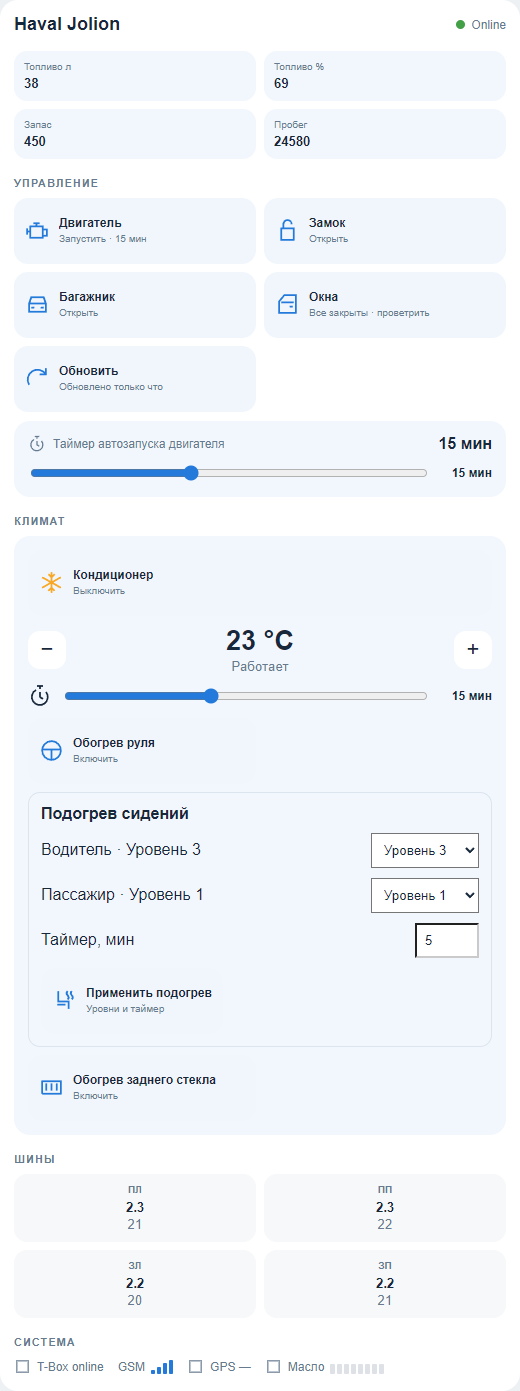
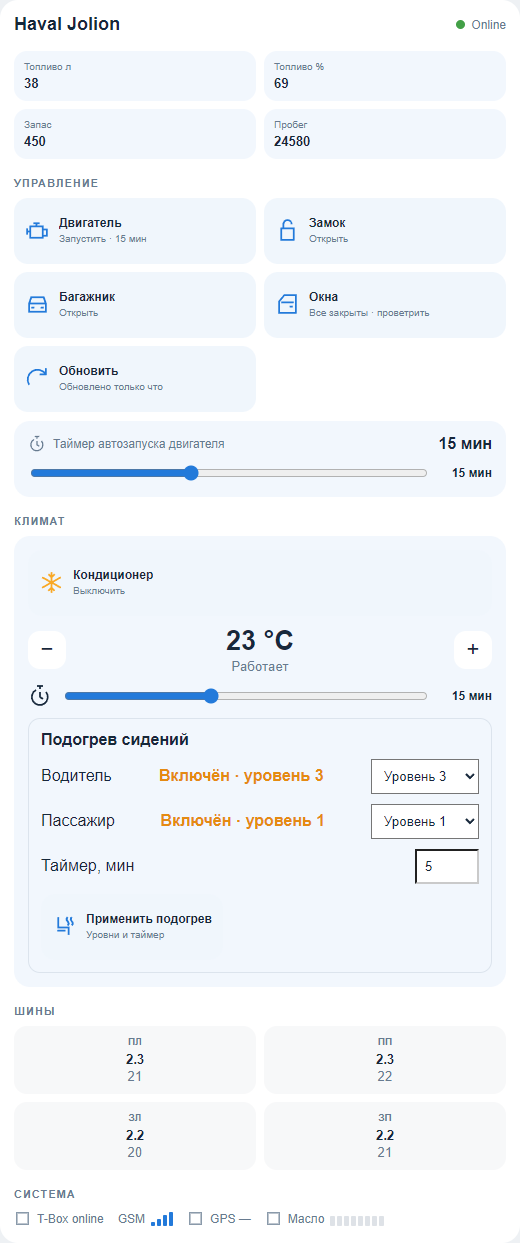
0.1.0-alpha.23: disable unconfirmed heaters and show seat status

diff --git a/custom_components/gwm_jolion/frontend/gwm-jolion-remote-card.js b/custom_components/gwm_jolion/frontend/gwm-jolion-remote-card.js
@@ -4,7 +4,7 @@
  * See LICENSE.starline and THIRD_PARTY_NOTICES.md in this directory.
  */
 (() => {
-  const CARD_VERSION = "0.1.0-alpha.22";
+  const CARD_VERSION = "0.1.0-alpha.23";
[1 lines of base64/hex data omitted]
   const INTEGRATION = "gwm_jolion";
   const DEFAULT_CONTROLS = ["engine", "lock", "climate", "trunk", "refresh"];

diff --git a/custom_components/gwm_jolion/frontend/gwm-jolion-card.js b/custom_components/gwm_jolion/frontend/gwm-jolion-card.js
@@ -1,6 +1,6 @@
-/* GWM Jolion Card v0.1.0-alpha.22 */
+/* GWM Jolion Card v0.1.0-alpha.23 */
 (() => {
-  const CARD_VERSION = "0.1.0-alpha.22";
+  const CARD_VERSION = "0.1.0-alpha.23";
   const INTEGRATION = "gwm_jolion";
 
   const SUFFIX = {
@@ -234,7 +234,7 @@
       if (Number.isFinite(value)) {
         return value === 0
           ? "Выключен"
-          : `Уровень ${value}`;
+          : `Включён · уровень ${value}`;
       }
       return `${raw}`;
     }
@@ -1027,7 +1027,7 @@
       this._seatSettings ||= {driver: 0, passenger: 0, operation_time: 5};
       return `<div class="seat-panel" style="grid-column:1/-1;padding:12px;border:1px solid var(--divider-color);border-radius:12px">
         <strong>Подогрев сидений</strong>
-        ${seats.map(([key, , sensor, label]) => `<label style="display:flex;justify-content:space-between;align-items:center;gap:8px;margin:10px 0">${label} · ${this._escape(this._seatValue(sensor))}
+        ${seats.map(([key, , sensor, label]) => `<label style="display:flex;flex-wrap:wrap;justify-content:space-between;align-items:center;gap:8px;margin:10px 0">${label}<span role="status" data-seat-status="${key}" style="font-weight:600;color:${Number(this._rawValue(sensor)) > 0 ? "var(--warning-color, #e58b12)" : "var(--secondary-text-color)"}">${this._escape(this._seatValue(sensor))}</span>
           <select aria-label="Подогрев: ${label}" data-seat-setting="${key}" style="padding:8px;background:var(--card-background-color);color:var(--primary-text-color)">${[0,1,2,3].map(level => `<option value="${level}" ${this._seatSettings[key] === level ? "selected" : ""}>${level ? `Уровень ${level}` : "Выключить"}</option>`).join("")}</select></label>`).join("")}
         <label style="display:flex;justify-content:space-between;align-items:center;margin:10px 0">Таймер, мин
           <input aria-label="Таймер подогрева" data-seat-setting="operation_time" type="number" min="1" max="10" step="1" value="${this._seatSettings.operation_time}" style="width:64px;padding:8px;background:var(--card-background-color);color:var(--primary-text-color)"></label>

diff --git a/custom_components/gwm_jolion/frontend/gwm-jolion-alpha20.js b/custom_components/gwm_jolion/frontend/gwm-jolion-alpha20.js
@@ -1,9 +1,7 @@
 /* GWM Jolion alpha.20 entity-surface compatibility layer */
 (() => {
-  const VERSION = "0.1.0-alpha.22";
+  const VERSION = "0.1.0-alpha.23";
   const SAFE_CAPABILITIES = new Set([
-    "steering_wheel_heat",
-    "rear_defrost",
     "seat_heat_driver",
     "seat_heat_passenger",
   ]);
@@ -13,8 +11,6 @@
     "climate",
     "trunk",
     "refresh",
-    "steering",
-    "rear_defrost",
   ]);
   const SAFE_REMOTE_STATUSES = new Set([
     "engine",

diff --git a/custom_components/gwm_jolion/__init__.py b/custom_components/gwm_jolion/__init__.py
@@ -19,7 +19,7 @@ from homeassistant.helpers.aiohttp_client import async_get_clientsession
 
 from .api import GwmJolionApiClient
 from .capabilities import resolve_manual_capabilities
-from .commands import COMMANDS
+from .commands import COMMANDS, UNSUPPORTED_COMMANDS
 from .const import (
     CONF_COMMAND_COOLDOWN, CONF_COUNTRY, CONF_COUNTRY_CODE, CONF_DEVICE_ID,
     CONF_ENABLE_REMOTE_CONTROLS, CONF_PHONE, CONF_POLL_INTERVAL, CONF_SECURITY_PIN,
@@ -42,22 +42,22 @@ FRONTEND_ASSETS = (
     (
         FRONTEND_DIR / "gwm-jolion-card-editor.js",
         "/gwm-jolion/gwm-jolion-card-editor.js",
-        "/gwm-jolion/gwm-jolion-card-editor.js?v=0.1.0-alpha.22",
+        "/gwm-jolion/gwm-jolion-card-editor.js?v=0.1.0-alpha.23",
     ),
     (
         FRONTEND_DIR / "gwm-jolion-card.js",
         "/gwm-jolion/gwm-jolion-card.js",
-        "/gwm-jolion/gwm-jolion-card.js?v=0.1.0-alpha.22",
+        "/gwm-jolion/gwm-jolion-card.js?v=0.1.0-alpha.23",
     ),
     (
         FRONTEND_DIR / "gwm-jolion-remote-card.js",
         "/gwm-jolion/gwm-jolion-remote-card.js",
-        "/gwm-jolion/gwm-jolion-remote-card.js?v=0.1.0-alpha.22",
+        "/gwm-jolion/gwm-jolion-remote-card.js?v=0.1.0-alpha.23",
     ),
     (
         FRONTEND_DIR / "gwm-jolion-alpha20.js",
         "/gwm-jolion/gwm-jolion-alpha20.js",
-        "/gwm-jolion/gwm-jolion-alpha20.js?v=0.1.0-alpha.22",
+        "/gwm-jolion/gwm-jolion-alpha20.js?v=0.1.0-alpha.23",
     ),
 )
 DATA_FRONTEND_REGISTERED = "_frontend_registered"
@@ -105,6 +105,12 @@ async def async_migrate_entry(hass: HomeAssistant, entry: ConfigEntry) -> bool:
 async def async_setup_entry(hass: HomeAssistant, entry: ConfigEntry) -> bool:
     hass.data.setdefault(DOMAIN, {})
     await _async_register_frontend(hass)
+
+    registry = er.async_get(hass)
+    for key in UNSUPPORTED_COMMANDS:
+        entity_id = registry.async_get_entity_id("button", DOMAIN, f"{entry.entry_id}_cmd_{key}")
+        if entity_id:
+            registry.async_remove(entity_id)
 
     data = dict(entry.data)
     options = dict(entry.options)

diff --git a/custom_components/gwm_jolion/coordinator.py b/custom_components/gwm_jolion/coordinator.py
@@ -16,7 +16,7 @@ from homeassistant.helpers.update_coordinator import DataUpdateCoordinator
 from .api import GwmJolionApiClient, GwmJolionApiError
 from .capabilities import CAPABILITIES, capability_for_command, capability_report
 from .command_safety import remote_start_block_reason
-from .commands import COMMANDS, build_seat_heating_instructions
+from .commands import COMMANDS, UNSUPPORTED_COMMANDS, build_seat_heating_instructions
 from .const import DEFAULT_CLIMATE_RUNTIME, DEFAULT_CLIMATE_TEMPERATURE, DOMAIN, VERSION
 from .protocol import SIGNALS, VerificationStatus, update_signal_change_history
 from .protocol_capture import (
@@ -317,6 +317,8 @@ class GwmJolionCoordinator(DataUpdateCoordinator[dict[str, Any]]):
 
     def feature_enabled(self, capability: str) -> bool:
         """Return whether optional equipment is enabled by the user."""
+        if capability in {"rear_defrost", "steering_wheel_heat"}:
+            return False
         return self.feature_flags.get(capability, True)
 
     def command_enabled(self, command_key: str) -> bool:
@@ -417,6 +419,8 @@ class GwmJolionCoordinator(DataUpdateCoordinator[dict[str, Any]]):
         *,
         operation_time: int | None = None,
     ) -> dict[str, Any]:
+        if command_key in UNSUPPORTED_COMMANDS:
+            raise HomeAssistantError("Управление этим обогревом не подтверждено и отключено")
         command = COMMANDS.get(command_key)
         if command is None:
             raise HomeAssistantError(f"Unknown command: {command_key}")

diff --git a/tests/test_entity_surface_alpha20.py b/tests/test_entity_surface_alpha20.py
@@ -31,8 +31,8 @@ def test_public_entity_surface_is_curated() -> None:
     assert "start_engine" in surface.PUBLIC_COMMAND_BUTTON_KEYS
     assert "stop_engine" in surface.PUBLIC_COMMAND_BUTTON_KEYS
     assert "open_trunk" in surface.PUBLIC_COMMAND_BUTTON_KEYS
-    assert "rear_defrost_on" in surface.PUBLIC_COMMAND_BUTTON_KEYS
-    assert "steering_wheel_heat_on" in surface.PUBLIC_COMMAND_BUTTON_KEYS
+    assert "rear_defrost_on" not in surface.PUBLIC_COMMAND_BUTTON_KEYS
+    assert "steering_wheel_heat_on" not in surface.PUBLIC_COMMAND_BUTTON_KEYS
 
 
 def test_binary_surface_has_only_reliable_status_entities() -> None:
@@ -104,11 +104,11 @@ def test_alpha20_frontend_uses_clean_entity_attributes() -> None:
     patch = (ROOT / "custom_components/gwm_jolion/frontend/gwm-jolion-alpha20.js").read_text(encoding="utf-8")
     init_source = (ROOT / "custom_components/gwm_jolion/__init__.py").read_text(encoding="utf-8")
 
-    assert 'const VERSION = "0.1.0-alpha.22"' in patch
+    assert 'const VERSION = "0.1.0-alpha.23"' in patch
     assert 'signal_level_raw' in patch
     assert 'feature_flags' in patch
     assert 'last_successful_update' in patch
     assert 'if (id === "windows") return ""' not in patch
     assert 'entities.windowFl = oldFr' in patch
     assert 'entities.windowFr = oldFl' in patch
-    assert 'gwm-jolion-alpha20.js?v=0.1.0-alpha.22' in init_source
+    assert 'gwm-jolion-alpha20.js?v=0.1.0-alpha.23' in init_source

diff --git a/tests/test_seat_commands.py b/tests/test_seat_commands.py
@@ -30,3 +30,18 @@ def test_reject_invalid_seat_settings(driver, passenger, time):
 def test_window_positions_match_android():
     assert commands.COMMANDS['close_windows']['instructions'] == {'0x08': {'window': dict(leftFront=0,leftBack=0,rightFront=0,rightBack=0)}}
     assert set(commands.COMMANDS['open_windows']['instructions']['0x08']['window'].values()) == {3}
+
+
+def test_unsupported_heaters_fail_before_network():
+    import ast
+    import asyncio
+    from types import SimpleNamespace
+    path = Path(__file__).resolve().parents[1] / 'custom_components/gwm_jolion/coordinator.py'
+    tree = ast.parse(path.read_text(encoding='utf-8'))
+    cls = next(node for node in tree.body if isinstance(node, ast.ClassDef) and node.name == 'GwmJolionCoordinator')
+    method = next(node for node in cls.body if isinstance(node, ast.AsyncFunctionDef) and node.name == 'async_execute_command')
+    scope = dict(UNSUPPORTED_COMMANDS=commands.UNSUPPORTED_COMMANDS, HomeAssistantError=RuntimeError, Any=object)
+    exec(compile(ast.Module(body=[method], type_ignores=[]), str(path), 'exec'), scope)
+    for key in commands.UNSUPPORTED_COMMANDS:
+        with pytest.raises(RuntimeError, match='отключено'):
+            asyncio.run(scope['async_execute_command'](SimpleNamespace(), key))

diff --git a/custom_components/gwm_jolion/entity_surface.py b/custom_components/gwm_jolion/entity_surface.py
@@ -32,10 +32,6 @@ PUBLIC_COMMAND_BUTTON_KEYS: frozenset[str] = frozenset(
         "flash_and_horn",
         "open_trunk",
         "close_trunk",
-        "rear_defrost_on",
-        "rear_defrost_off",
-        "steering_wheel_heat_on",
-        "steering_wheel_heat_off",
     }
 )
 
@@ -44,8 +40,6 @@ PUBLIC_COMMAND_BUTTON_KEYS: frozenset[str] = frozenset(
 # but no longer clutter the normal Options Flow.
 PUBLIC_MANUAL_CAPABILITIES: frozenset[str] = frozenset(
     {
-        "steering_wheel_heat",
-        "rear_defrost",
         "seat_heat_driver",
         "seat_heat_passenger",
     }

diff --git a/tests/test_protocol_field_results_alpha19_7.py b/tests/test_protocol_field_results_alpha19_7.py
@@ -36,7 +36,7 @@ def test_high_beam_code_remains_candidate_not_confirmed() -> None:
 
 def test_const_keeps_raw_window_protocol_but_exposes_clean_binary_names() -> None:
     const = _load("gwm_const_alpha20", "custom_components/gwm_jolion/const.py")
-    assert const.VERSION == "0.1.0-alpha.22"
+    assert const.VERSION == "0.1.0-alpha.23"
     expected_raw = {
         "2210001": "Окно переднее левое (raw)",
         "2210002": "Окно переднее правое (raw)",

diff --git a/custom_components/gwm_jolion/commands.py b/custom_components/gwm_jolion/commands.py
@@ -226,3 +226,9 @@ def build_seat_heating_instructions(driver: int | None, passenger: int | None, o
     if driver == 0 and passenger == 0:
         seat.update(switchOrder="2", operationTime="0", leftBack="0", rightBack="0")
     return {"0x0A": {"seat": seat}}
+
+
+UNSUPPORTED_COMMANDS = frozenset({
+    "rear_defrost_on", "rear_defrost_off",
+    "steering_wheel_heat_on", "steering_wheel_heat_off",
+})

diff --git a/custom_components/gwm_jolion/const.py b/custom_components/gwm_jolion/const.py
@@ -6,7 +6,7 @@ from dataclasses import dataclass
 from enum import Enum
 
 DOMAIN = "gwm_jolion"
-VERSION = "0.1.0-alpha.22"
+VERSION = "0.1.0-alpha.23"
 PLATFORMS = ["button", "sensor", "binary_sensor", "device_tracker", "lock", "climate", "number"]
 
 CONF_PHONE = "phone"

diff --git a/README.md b/README.md
@@ -4,7 +4,7 @@
 
 Неофициальная интеграция для **Haval Jolion с российским GWM Cloud**: состояние автомобиля, удалённое управление и две встроенные карточки. Разрабатывается на Haval Jolion 2022 Premium.
 
-Версия **0.1.0-alpha.22** · [Изменения](CHANGELOG.md) · [Планы](ROADMAP.md)
+Версия **0.1.0-alpha.23** · [Изменения](CHANGELOG.md) · [Планы](ROADMAP.md)
 
 ## Возможности
 
@@ -12,7 +12,7 @@
 - Топливо, запас хода, пробег, давление и температура четырёх шин.
 - Местоположение на карте, связь с автомобилем и время обновления.
 - Запуск и остановка двигателя, замок, багажник, световой и звуковой сигналы.
-- Климат: включение, температура и время работы; обогрев руля и заднего стекла.
+- Климат: включение, температура и время работы.
 - Подогрев водительского и пассажирского сидений: уровни **0–3**, таймер **1–10 минут**.
 - Закрытие окон и проветривание.
 
@@ -57,7 +57,7 @@ type: custom:gwm-jolion-remote-card
 - интервал обновления;
 - разрешение удалённого управления и PIN безопасности;
 - пауза между командами;
-- наличие обогревов руля, заднего стекла и каждого переднего сиденья.
+- наличие подогрева каждого переднего сиденья.
 
 Температура и время работы климата задаются в карточке или стандартных сущностях Home Assistant. Для автоматизаций подогревов доступно действие `gwm_jolion.set_seat_heating`: `driver` и `passenger` — уровни 0–3, `operation_time` — минуты. При нескольких автомобилях укажите `entry_id` нужной интеграции.
 
